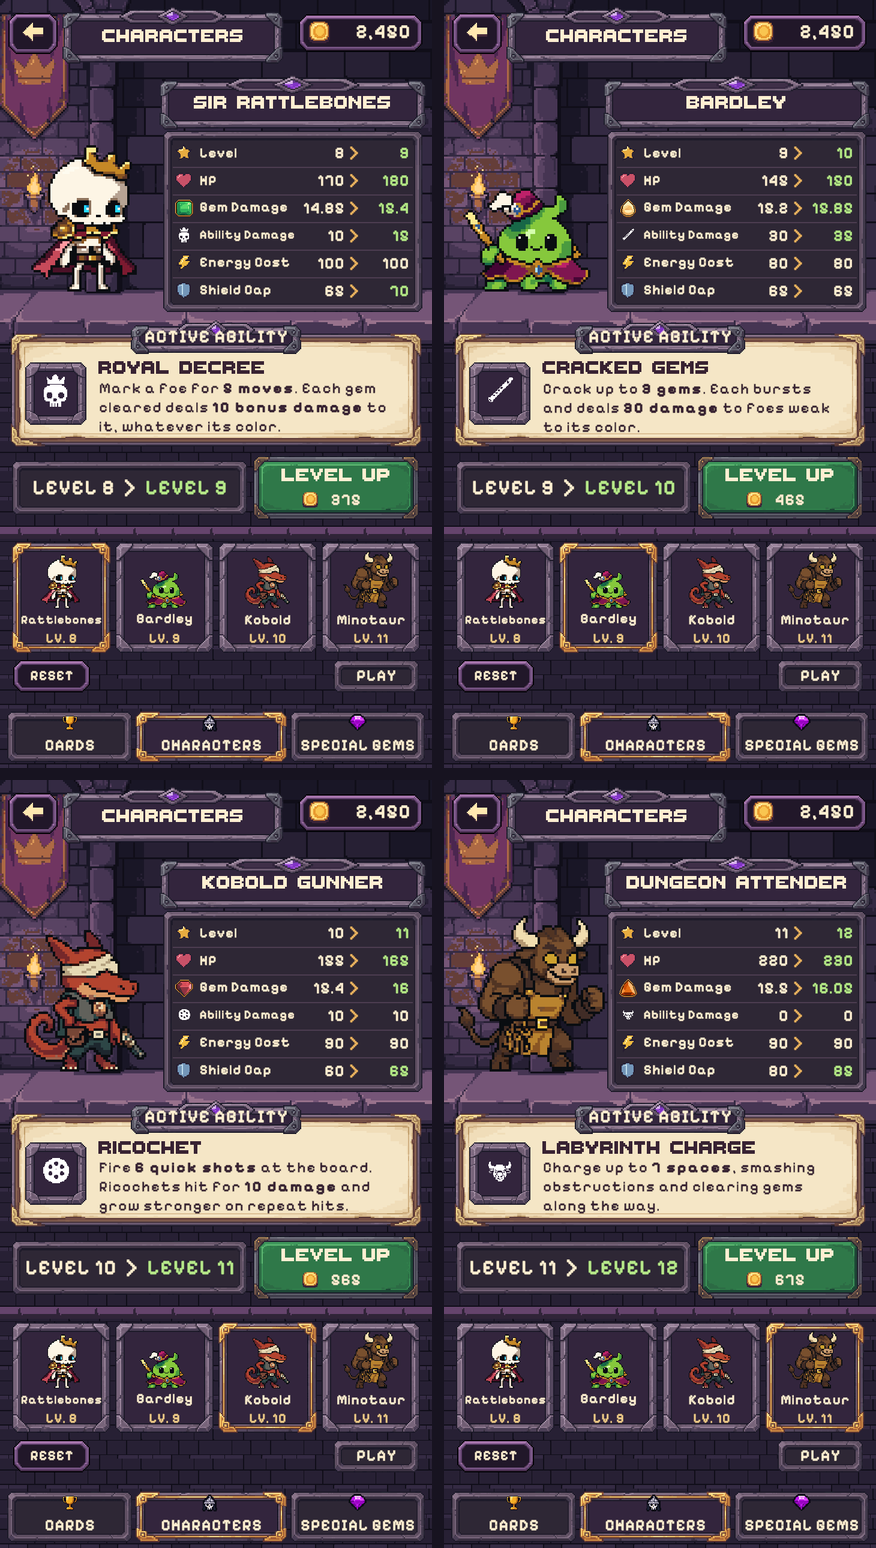
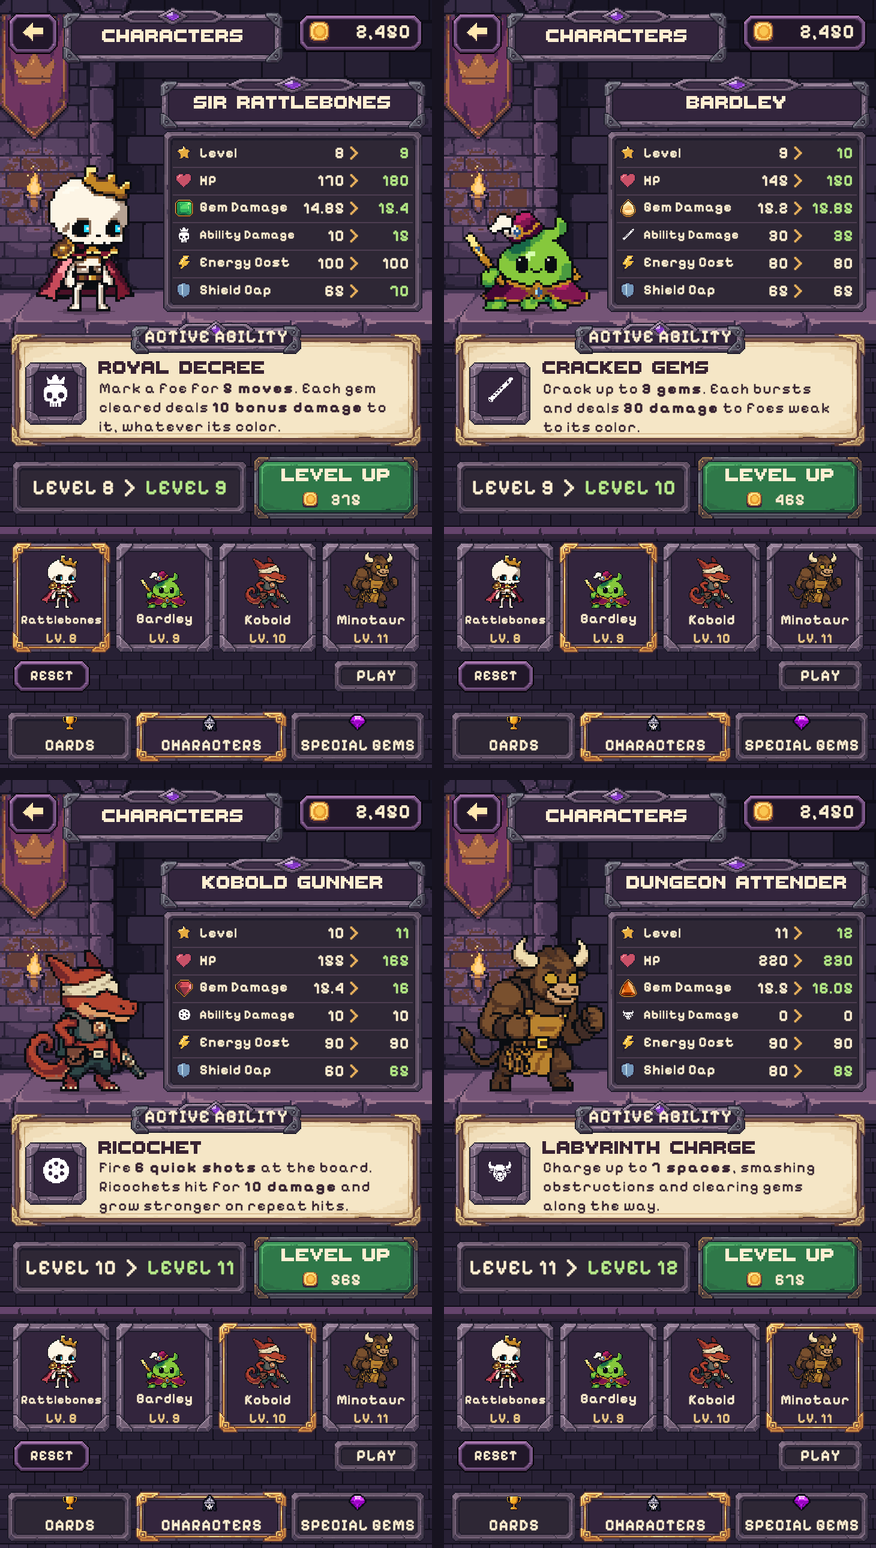
Plant character previews on the dais and play their battle idles

diff --git a/Assets/_Game/Scripts/Editor/CharacterChamberPlayTests.cs b/Assets/_Game/Scripts/Editor/CharacterChamberPlayTests.cs
@@ -1,10 +1,12 @@
 using System;
 using System.Collections;
+using System.Collections.Generic;
 using System.IO;
 using System.Linq;
 using System.Reflection;
 using NUnit.Framework;
 using TMPro;
+using UnityEditor;
 using UnityEditor.SceneManagement;
 using UnityEngine;
 using UnityEngine.SceneManagement;
@@ -49,7 +51,8 @@ public sealed class CharacterChamberPlayTests
                 Click(buttons[i]); yield return null;
                 Assert.AreEqual(ids[i],CharacterSelectionSettings.SelectedPlayerId);
                 Assert.True(PlayerDefinitionRegistry.TryGetDefinition(ids[i],out var definition));
-                Assert.AreSame(definition.BattleCharacterSprite,Find<Image>(panel,"CharacterPreview").sprite);
+                Assert.AreSame(definition.BattleCharacterSprite,Find<Image>(Find<Button>(panel,buttons[i]),"Portrait").sprite);
+                yield return VerifyIdle(panel,definition,rendered);
                 Assert.AreSame(gems.GetSprite(definition.AffinityGemType),Find<Image>(panel,"Icon2").sprite);
                 Assert.AreEqual(definition.ActiveAbility.EnergyCost.ToString(),Find<TMP_Text>(panel,"Next4").text);
                 if(rendered) yield return Shot(panel,ids[i]+"-720x1280");
@@ -63,6 +66,7 @@ public sealed class CharacterChamberPlayTests
             Assert.AreEqual(AccountProgression.Current.Gold.ToString("N0"),Find<TMP_Text>(panel,"Gold").text);
             Click("CardsTab");yield return null;
             Assert.AreEqual("CARDS",Find<TMP_Text>(panel,"ScreenTitle").text);
+            Assert.IsNull(GameObject.Find("CharacterPreview"),"Stats preview should be hidden in the library");
             Assert.NotNull(Find<Image>(panel,"Artwork").sprite);
             string first=Find<TMP_Text>(panel,"CardTitle").text;
             Click("NextCards");yield return null;
@@ -137,10 +141,69 @@ public sealed class CharacterChamberPlayTests
         button.onClick.Invoke();
     }
 
+    private static void CheckFooting(Component panel, Image hero)
+    {
+        var chamber = Find<RectTransform>(panel,"TorchlitChamber");
+        var foot = chamber.InverseTransformPoint(hero.rectTransform.position);
+        float row = (chamber.rect.yMax-foot.y) / chamber.rect.height * 192;
+        Assert.That(row,Is.InRange(165f,177f),"Feet must be inside the top face of the painted dais");
+        Assert.AreEqual(hero.sprite.pivot / hero.sprite.rect.size,hero.rectTransform.pivot);
+        Assert.AreEqual(hero.sprite.rect.size*2,hero.rectTransform.sizeDelta);
+    }
+
+    private static IEnumerator VerifyIdle(Component panel, PlayerDefinition player, bool rendered)
+    {
+        var hero = Find<Image>(panel,"CharacterPreview");
+        var animator = hero.GetComponent<Animator>();
+        Assert.AreSame(player.BattleAnimatorController,animator.runtimeAnimatorController);
+        yield return null;
+        var clip = animator.GetCurrentAnimatorClipInfo(0).Single().clip;
+        Assert.True(clip.isLooping);
+        var binding = AnimationUtility.GetObjectReferenceCurveBindings(clip)
+            .Single(b => b.type == typeof(Image) && b.propertyName == "m_Sprite");
+        var keys = AnimationUtility.GetObjectReferenceCurve(clip,binding);
+        Assert.AreSame(player.BattleCharacterSprite,keys[0].value);
+        var authored = new HashSet<Sprite>(keys.Select(key => (Sprite)key.value));
+        var seen = new HashSet<Sprite>();
+        float start = animator.GetCurrentAnimatorStateInfo(0).normalizedTime;
+        float deadline = Time.realtimeSinceStartup + 10;
+        while (animator.GetCurrentAnimatorStateInfo(0).normalizedTime-start < 1)
+        {
+            Assert.Less(Time.realtimeSinceStartup,deadline,"Idle did not loop while browsing " + player.DisplayName);
+            Assert.True(authored.Contains(hero.sprite),"Unexpected frame for " + player.DisplayName);
+            seen.Add(hero.sprite);
+            CheckFooting(panel,hero);
+            yield return null;
+        }
+        Assert.Greater(seen.Count, 2, "The displayed sprite stayed on a single pose");
+        if (!rendered) yield break;
+
+        // Freeze the already verified live Animator at each authored key for visual review.
+        int state = animator.GetCurrentAnimatorStateInfo(0).fullPathHash;
+        string folder = Path.Combine("Idles",player.PlayerId);
+        Directory.CreateDirectory(Path.Combine(Output,folder));
+        animator.speed = 0;
+        try
+        {
+            for (int i=0;i<keys.Length;i++)
+            {
+                if (i>0 && keys[i].value==keys[i-1].value) continue;
+                float end = i+1<keys.Length ? keys[i+1].time : clip.length;
+                animator.Play(state,0,(keys[i].time+end)*.5f/clip.length);
+                animator.Update(0);
+                Assert.AreSame(keys[i].value,hero.sprite);
+                yield return Shot(panel,Path.Combine(folder,i.ToString("00")));
+            }
+        }
+        finally { animator.speed = 1; }
+    }
+
     private static IEnumerator Shot(Component panel,string name)
     {
         yield return null; yield return null;
         Canvas.ForceUpdateCanvases();
+        var hero = panel.GetComponentsInChildren<Image>().FirstOrDefault(i => i.name=="CharacterPreview");
+        if (hero != null) CheckFooting(panel,hero);
         foreach(var label in panel.GetComponentsInChildren<TMP_Text>())
         {
             label.ForceMeshUpdate();

diff --git a/Assets/_Game/Scripts/UI/CharacterSelectMenuController.cs b/Assets/_Game/Scripts/UI/CharacterSelectMenuController.cs
@@ -88,7 +88,7 @@ public sealed partial class CharacterSelectMenuController : MonoBehaviour
         int cost = BalanceV1.Current.UpgradeCost(level);
         bool savedRun = account.ActiveRun != null;
         wallet.text = account.Gold.ToString("N0");
-        Ground(hero,definition.BattleCharacterSprite,72,243,2f);
+        SetPreview(definition);
         nameLabel.text = selected.title.ToUpperInvariant();
         affinity.sprite = gemIcons.GetSprite(definition.AffinityGemType);
         var engraving = ability.ReadyStoneEngraving != null ? ability.ReadyStoneEngraving : ability.Icon;

diff --git a/ArtSource/CharacterChamber/export.py b/ArtSource/CharacterChamber/export.py
@@ -68,3 +68,11 @@ for name,(points,fill,glint) in icons.items():
     elif name=="Shield": d.line([(3,3),(6,2),(6,10)],fill=glint)
     else: d.line([(3,5),(6,5),(7,2)],fill=glint)
     export(name,im)
+
+# A shallow, stepped contact mark lets the original stone remain visible under the feet.
+shadow = Image.new("RGBA", (32, 5))
+draw = ImageDraw.Draw(shadow)
+for y, inset in enumerate((8, 3, 0, 3, 9)):
+    draw.line((inset, y, 31-inset, y), fill=(34, 24, 43, 112))
+draw.line((7, 2, 24, 2), fill=(34, 24, 43, 150))
+export("ContactShadow", shadow)

diff --git a/Assets/_Game/Scripts/UI/CharacterSelectMenuController.Codex.cs b/Assets/_Game/Scripts/UI/CharacterSelectMenuController.Codex.cs
@@ -38,6 +38,7 @@ public sealed partial class CharacterSelectMenuController
 
     private void ShowCards(bool show)
     {
+        footAnchor.gameObject.SetActive(!show);
         figures.gameObject.SetActive(!show);
         details.gameObject.SetActive(!show);
         collection.gameObject.SetActive(!show);

diff --git a/ArtSource/CharacterChamber/README.md b/ArtSource/CharacterChamber/README.md
@@ -2,6 +2,8 @@
 
 The 240 × 192 wall, torch, banner and dais are from PixelLab image job `06987370-1692-464f-8d9b-993682c19a0c`, seed 452188. The lower masonry repeats a crop of that same wall. The 256 × 256 fittings sheet is from PixelLab UI job `f99172e6-efd8-439c-997b-c373d6098e72`, seed 283531. Each job used 10 generations. Both originals are included here.
 
-The six fittings provide the name plaque, stat tray, parchment, normal and selected roster cards, and the level-up control. Their borders also serve the progression strip, selected tab, library rows and reset dialog. The existing merchant title, back arrow, wallet, coin and stone trim, plus the global menu navigation icons, are reused. Four small stat glyphs were drawn locally. Character previews and portraits come directly from each playable PlayerDefinition's battle sprite. The ability and affinity icons are the same ones referenced by combat.
+The six fittings provide the name plaque, stat tray, parchment, normal and selected roster cards, and the level-up control. Their borders also serve the progression strip, selected tab, library rows and reset dialog. The existing merchant title, back arrow, wallet, coin and stone trim, plus the global menu navigation icons, are reused. Four small stat glyphs were drawn locally. Roster cards use each playable PlayerDefinition's battle sprite. The large stats preview plays its battle Animator Controller on the same foot pivot. A small stepped shadow sits under that pivot on the painted top of the dais. The ability and affinity icons are the same ones referenced by combat.
 
 Each `.ase` is an editable LibreSprite file. `export.py` records the component rectangles, border widths, purple face cleanup, masonry crop and glyph drawings. It saves each cleaned sprite through LibreSprite, reopens the export and compares every RGBA pixel. Run it with Python and Pillow, passing the path to the LibreSprite executable. The production PNGs in `Assets/_Game/Resources/UI/CharacterChamber` use Point sampling and the same texture import settings as the merchant plates.
+
+[Looping previews from Unity](GroundedIdles.gif) show the four characters at the timings of their production clips. [Full character screens](FourCharacters.png) show the surrounding UI.

diff --git a/Docs/PROJECT_STATE.md b/Docs/PROJECT_STATE.md
@@ -1549,7 +1549,7 @@ Current connected UI flow includes:
 
 ## Characters
 
-- four roster cards use the same player sprites that appear in battle; selecting a card chooses the character for a new run;
+- four roster cards choose the character for a new run. The stats preview plays the selected battle idle with the character standing on the chamber dais;
 - independent level display;
 - level, HP, base damage per gem, direct ability damage, energy cost and shield cap use production character data;
 - next-level improvements;
